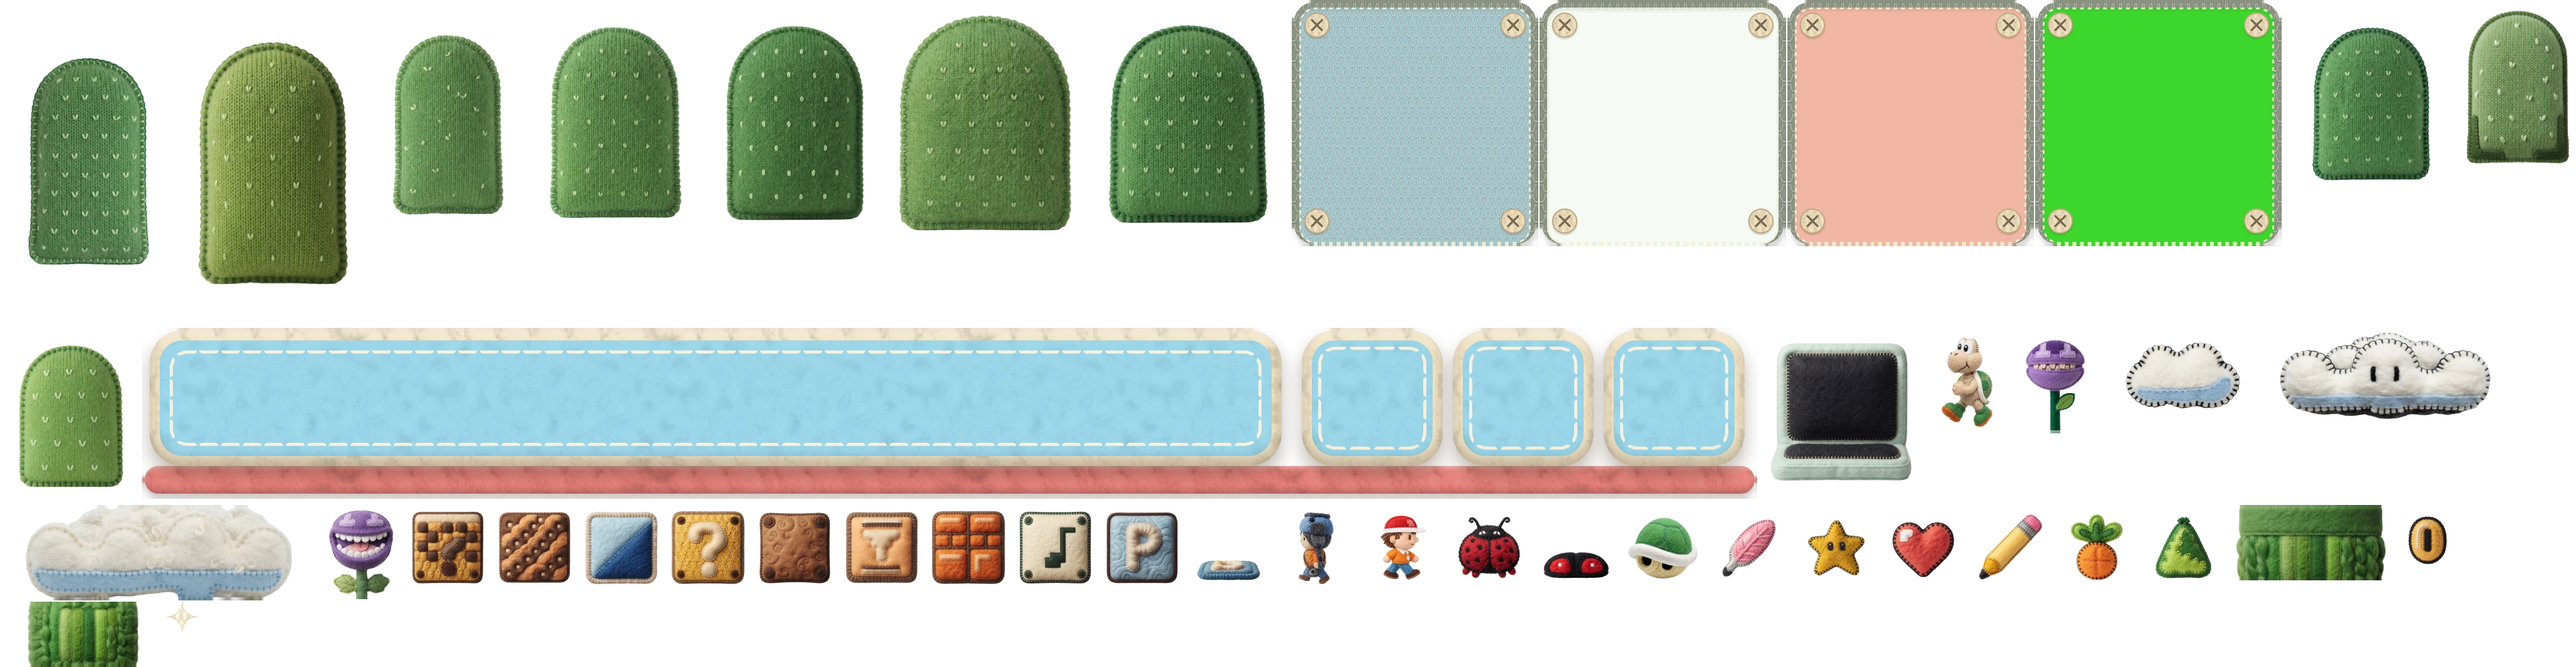
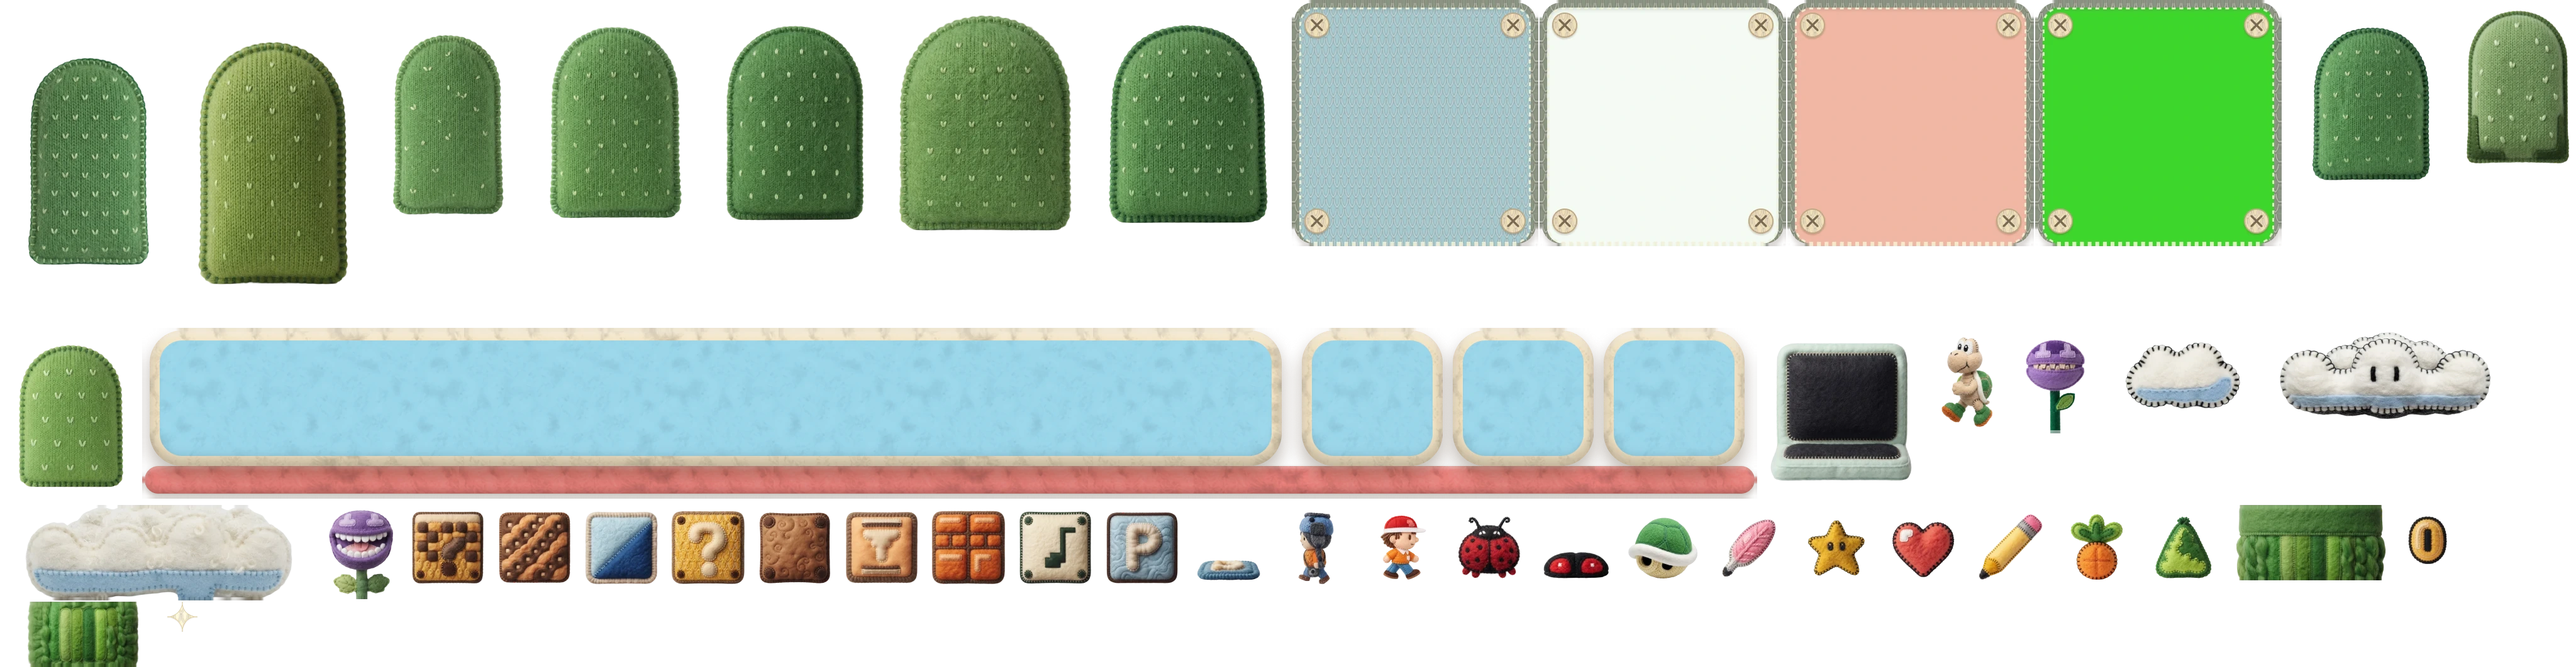
Flip cleared worlds to a felt check card and drop the HUD stitching
A cleared world's map tile flips over to a white check card the first
time you're back on the map (remembered in progress.flipped), and stays
enterable. The status bar loses its dashed stitch lines, and the map's
app icon is now as tall as the two text rows beside it.

diff --git a/src/scenes/OverworldScene.ts b/src/scenes/OverworldScene.ts
@@ -1,5 +1,5 @@
 import Phaser from 'phaser';
-import { ART, FELT, Z, preloadFelt, setupFelt } from '../art/felt';
+import { Z, preloadFelt, setupFelt } from '../art/felt';
 import { heroFront, preloadHeroes } from '../art/hero';
 import { getSite, getWorld, getWorlds, resolveSrc } from '../content/store';
 import type { MapNode } from '../content/types';
@@ -27,6 +27,16 @@ const MAP_TEX = 1.25;
 
 const at = (n: MapNode) => ({ x: n.x * K, y: n.y * K });
 
+/**
+ * World tiles for the flip, cut from the map art (felt/map-cards.webp): one
+ * column per world, each cell centred on its stop. Rows: the ground under the
+ * tile, the numbered tile, and the white check card a cleared world shows.
+ */
+const CARDS = 'felt-map-cards';
+const CARD_W = 260;
+const CARD_H = 240;
+const card = (world: number, row: 'ground' | 'tile' | 'check') => ['ground', 'tile', 'check'].indexOf(row) * 6 + world - 1;
+
 /** The hero on the map covers most of a world tile (about 25x23 game px): its height, and how far below a stop's centre its feet stand. */
 const MARKER_H = 24;
 const MARKER_FEET = 10;
@@ -48,6 +58,7 @@ export class OverworldScene extends Phaser.Scene {
     preloadHeroes(this);
     if (!this.textures.exists('felt-map')) this.load.image('felt-map', asset('felt/map-bg.jpg'));
     if (!this.textures.exists('felt-map-lock')) this.load.image('felt-map-lock', asset('felt/map-lock.png'));
+    if (!this.textures.exists(CARDS)) this.load.spritesheet(CARDS, asset('felt/map-cards.webp'), { frameWidth: CARD_W, frameHeight: CARD_H });
     // app icons for the status bar's teaser
     for (const w of getWorlds()) {
       if (w.icon && !this.textures.exists(`icon:${w.icon}`)) this.load.image(`icon:${w.icon}`, resolveSrc(w.icon));
@@ -69,7 +80,7 @@ export class OverworldScene extends Phaser.Scene {
       document.body.classList.remove('felt');
     });
     setupFelt(this);
-    for (const key of ['felt-map', 'felt-map-lock']) this.textures.get(key).setFilter(Phaser.Textures.FilterMode.LINEAR);
+    for (const key of ['felt-map', 'felt-map-lock', CARDS]) this.textures.get(key).setFilter(Phaser.Textures.FilterMode.LINEAR);
 
     this.add.image(0, 0, 'felt-map').setOrigin(0).setDisplaySize(WIDTH, MAP_H);
 
@@ -79,13 +90,9 @@ export class OverworldScene extends Phaser.Scene {
       const p = at(lock);
       this.lockArt = this.add.image(p.x, p.y, 'felt-map-lock').setScale(K / MAP_TEX);
     }
-    const worlds = getWorlds();
     for (const n of nodes) {
       const p = at(n);
-      if (n.type === 'world' && n.world && progress.cleared.includes(n.world)) {
-        const card = worlds.find((w) => w.slug === n.world)?.card ?? 'star';
-        this.add.image(p.x + 9, p.y - 9, FELT, `icon-${card}`).setScale(0.45 / ART);
-      }
+      if (n.type === 'world' && n.world && n.number && progress.cleared.includes(n.world)) this.checkCard(n.world, n.number, p);
       if ((n.type === 'house' || n.type === 'castle') && n.label) {
         const sign = px(this, p.x, p.y - (n.type === 'castle' ? 30 : 16), n.label, { size: 6, color: '#000' }).setOrigin(0.5);
         sign.setBackgroundColor('#ffffff').setPadding(2, 2, 2, 1).setDepth(5);
@@ -133,6 +140,42 @@ export class OverworldScene extends Phaser.Scene {
   update(_time: number, delta: number) {
     const t = this.time.now;
     this.markerImg.y = this.moving ? -Math.abs(Math.sin(t / 85)) * 2.5 : Math.sin(t / 420) * 0.35;
+  }
+
+  /**
+   * A cleared world shows a white check card in place of its number (it can
+   * still be entered). The first time back on the map the tile flips over to
+   * it, like SMB3's cleared panels.
+   */
+  private checkCard(slug: string, world: number, p: { x: number; y: number }) {
+    const s = K / MAP_TEX;
+    // the ground under the tile covers the map's own numbered tile while it turns
+    this.add.image(p.x, p.y, CARDS, card(world, 'ground')).setScale(s);
+    const check = this.add.image(p.x, p.y, CARDS, card(world, 'check')).setScale(s);
+    if (progress.flipped.includes(slug)) return;
+    progress.flipped.push(slug);
+    saveProgress();
+    // you come back standing on it, so it turns above the hero, then settles under
+    const tile = this.add.image(p.x, p.y, CARDS, card(world, 'tile')).setScale(s).setDepth(11);
+    check.setScale(0, s).setDepth(11).setY(p.y - 4);
+    this.tweens.chain({
+      tweens: [
+        { targets: tile, y: p.y - 4, delay: 550, duration: 140, ease: 'Sine.easeOut' },
+        { targets: tile, scaleX: 0, scaleY: s * 1.08, duration: 150, ease: 'Sine.easeIn', onComplete: () => sfx.coin() },
+        { targets: check, scaleX: s, scaleY: { from: s * 1.08, to: s }, duration: 220, ease: 'Back.easeOut' },
+        {
+          targets: check,
+          y: p.y,
+          delay: 250,
+          duration: 160,
+          ease: 'Sine.easeIn',
+          onComplete: () => {
+            tile.destroy();
+            check.setDepth(0);
+          },
+        },
+      ],
+    });
   }
 
   private isOpen(n: MapNode) {

diff --git a/src/game/feltHud.ts b/src/game/feltHud.ts
@@ -7,8 +7,9 @@ import { FIELD, WIDTH, progress } from './state';
 const EXTRA = WIDTH - 320;
 const CARD_X = 230 + EXTRA;
 const COIN_X = 179 + EXTRA;
-/** The app icon on a map stop: nearly the bar's full height. */
-const STOP_ICON = 22;
+/** The app icon on a map stop: as tall as the two text rows beside it, inside the dashed outline. */
+const STOP_ICON = 16;
+const STOP_ICON_Y = FIELD + 14.25;
 import { px } from './text';
 
 // The felt status bar (Figma: ui-felt/status-bar) for courses that render
@@ -115,11 +116,11 @@ export class FeltStatusBar {
     this.chapterIcon = undefined;
     let x = 10;
     if (icon && this.scene.textures.exists(icon)) {
-      const img = this.scene.add.image(8 + STOP_ICON / 2, FIELD + 15, roundedIcon(this.scene, icon)).setDisplaySize(STOP_ICON, STOP_ICON);
+      const img = this.scene.add.image(10 + STOP_ICON / 2, STOP_ICON_Y, roundedIcon(this.scene, icon)).setDisplaySize(STOP_ICON, STOP_ICON);
       this.root.add(img);
       this.chapterIcon = img;
       this.scene.tweens.add({ targets: img, scale: { from: img.scale * 1.25, to: img.scale }, duration: 320, ease: 'Back.easeOut' });
-      x = 8 + STOP_ICON + 6;
+      x = 10 + STOP_ICON + 5;
     }
     this.worldText.setText(world).setX(x);
     this.line2.setText(title).setX(x);

diff --git a/src/game/state.ts b/src/game/state.ts
@@ -20,6 +20,8 @@ interface Progress {
   mapNode: string;
   /** Picked on the title screen. */
   hero: Hero;
+  /** Cleared worlds whose map tile has already flipped to the check card. */
+  flipped: string[];
 }
 
 const KEY = 'smb3.progress';
@@ -28,9 +30,12 @@ function load(): Progress {
   try {
     const p = JSON.parse(localStorage.getItem(KEY) ?? '');
     // 'female' is the helmet hero's id from before the heroes were renamed
-    if (p && Array.isArray(p.cleared)) return { cleared: p.cleared, coins: p.coins ?? 0, mapNode: p.mapNode ?? 'start', hero: p.hero === 'helmet' || p.hero === 'female' ? 'helmet' : 'hat' };
+    if (p && Array.isArray(p.cleared)) {
+      const hero = p.hero === 'helmet' || p.hero === 'female' ? 'helmet' : 'hat';
+      return { cleared: p.cleared, coins: p.coins ?? 0, mapNode: p.mapNode ?? 'start', hero, flipped: Array.isArray(p.flipped) ? p.flipped : [] };
+    }
   } catch {}
-  return { cleared: [], coins: 0, mapNode: 'start', hero: 'hat' };
+  return { cleared: [], coins: 0, mapNode: 'start', hero: 'hat', flipped: [] };
 }
 
 export const progress: Progress = load();
